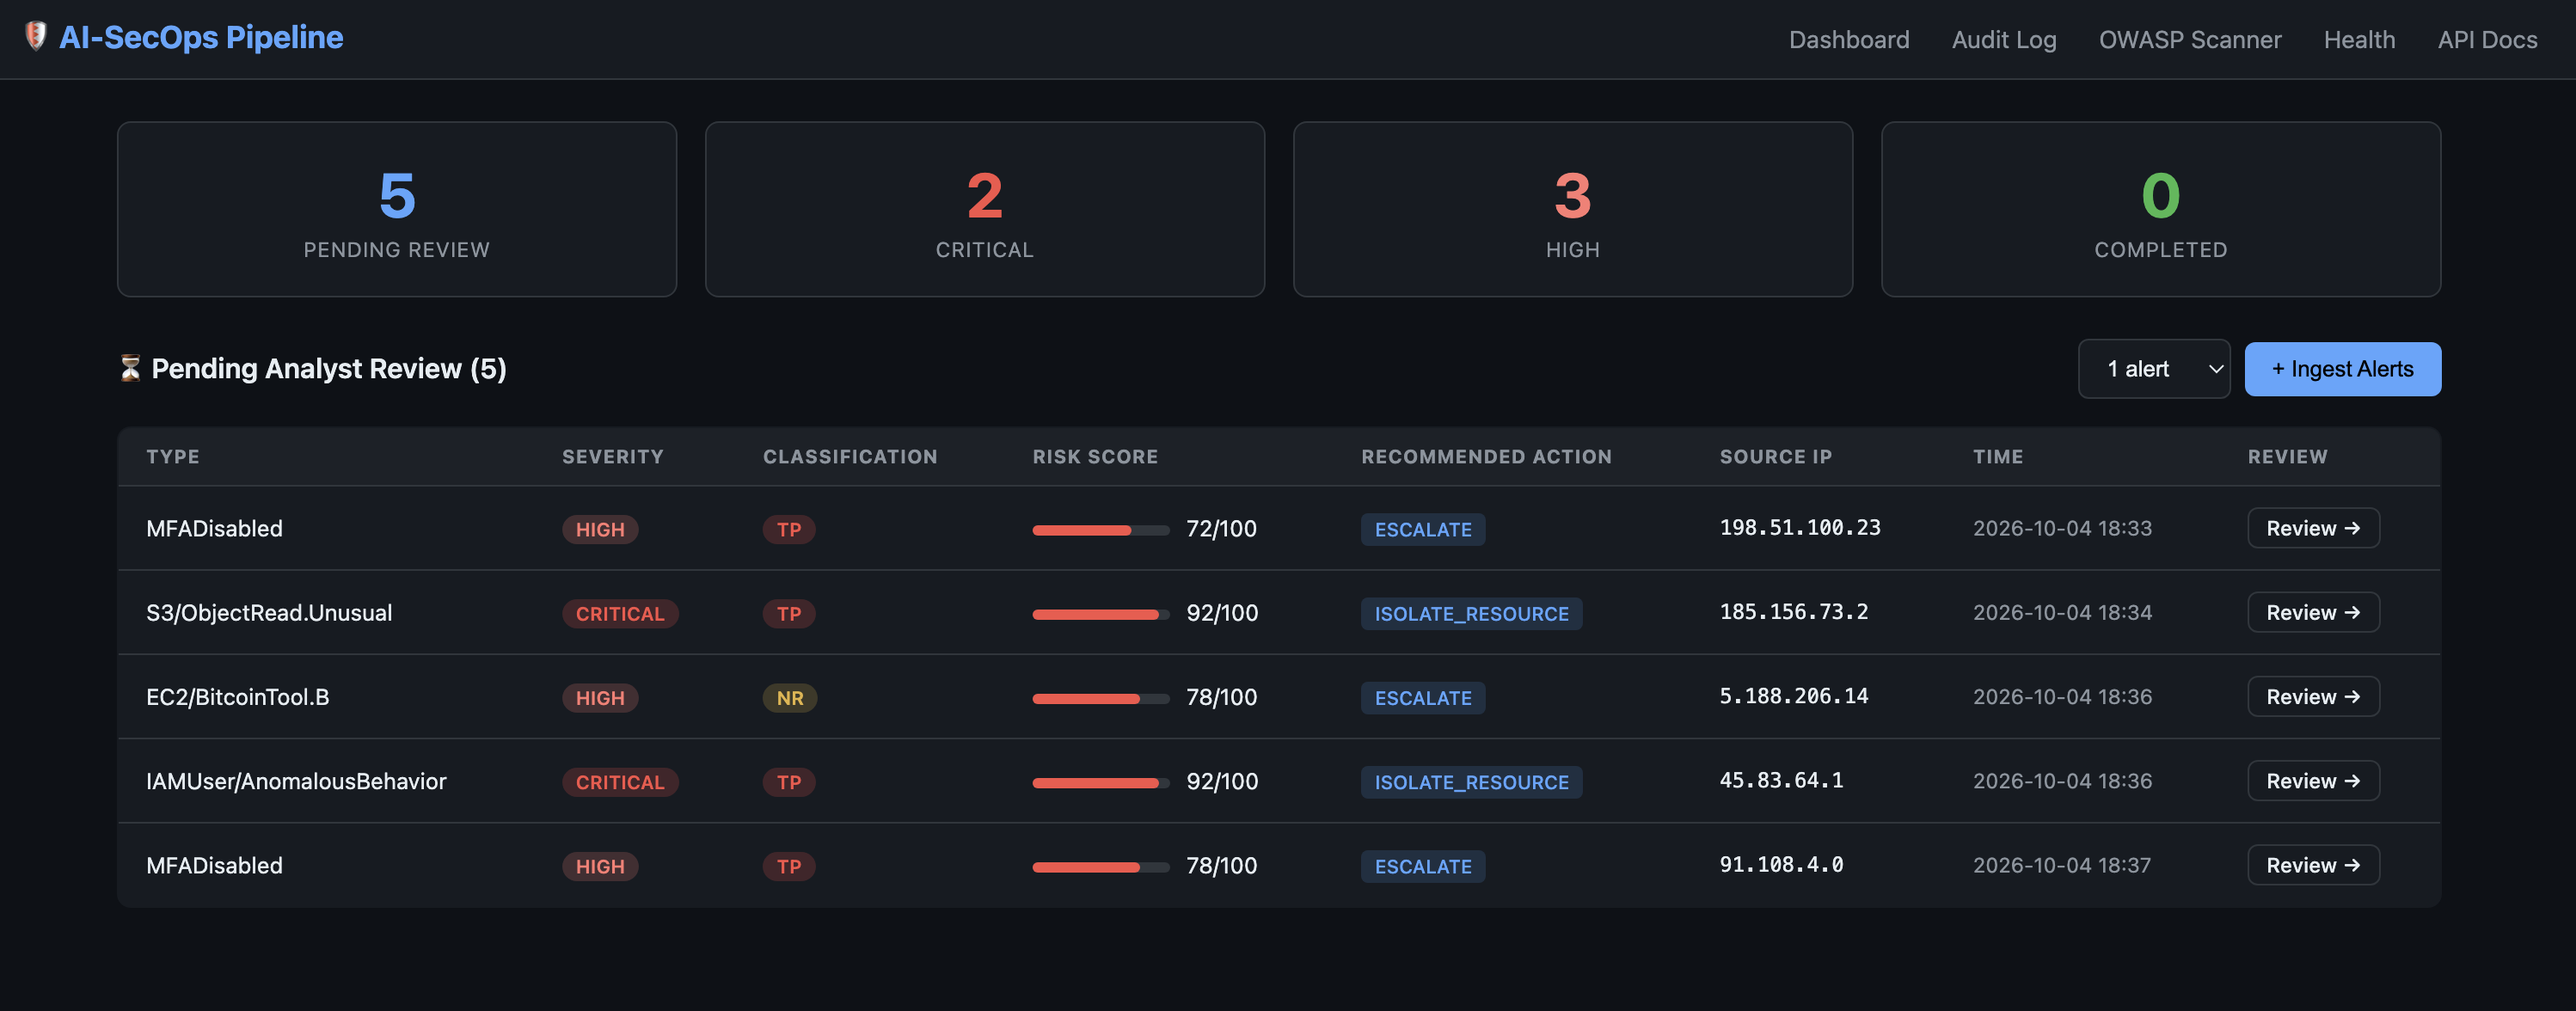
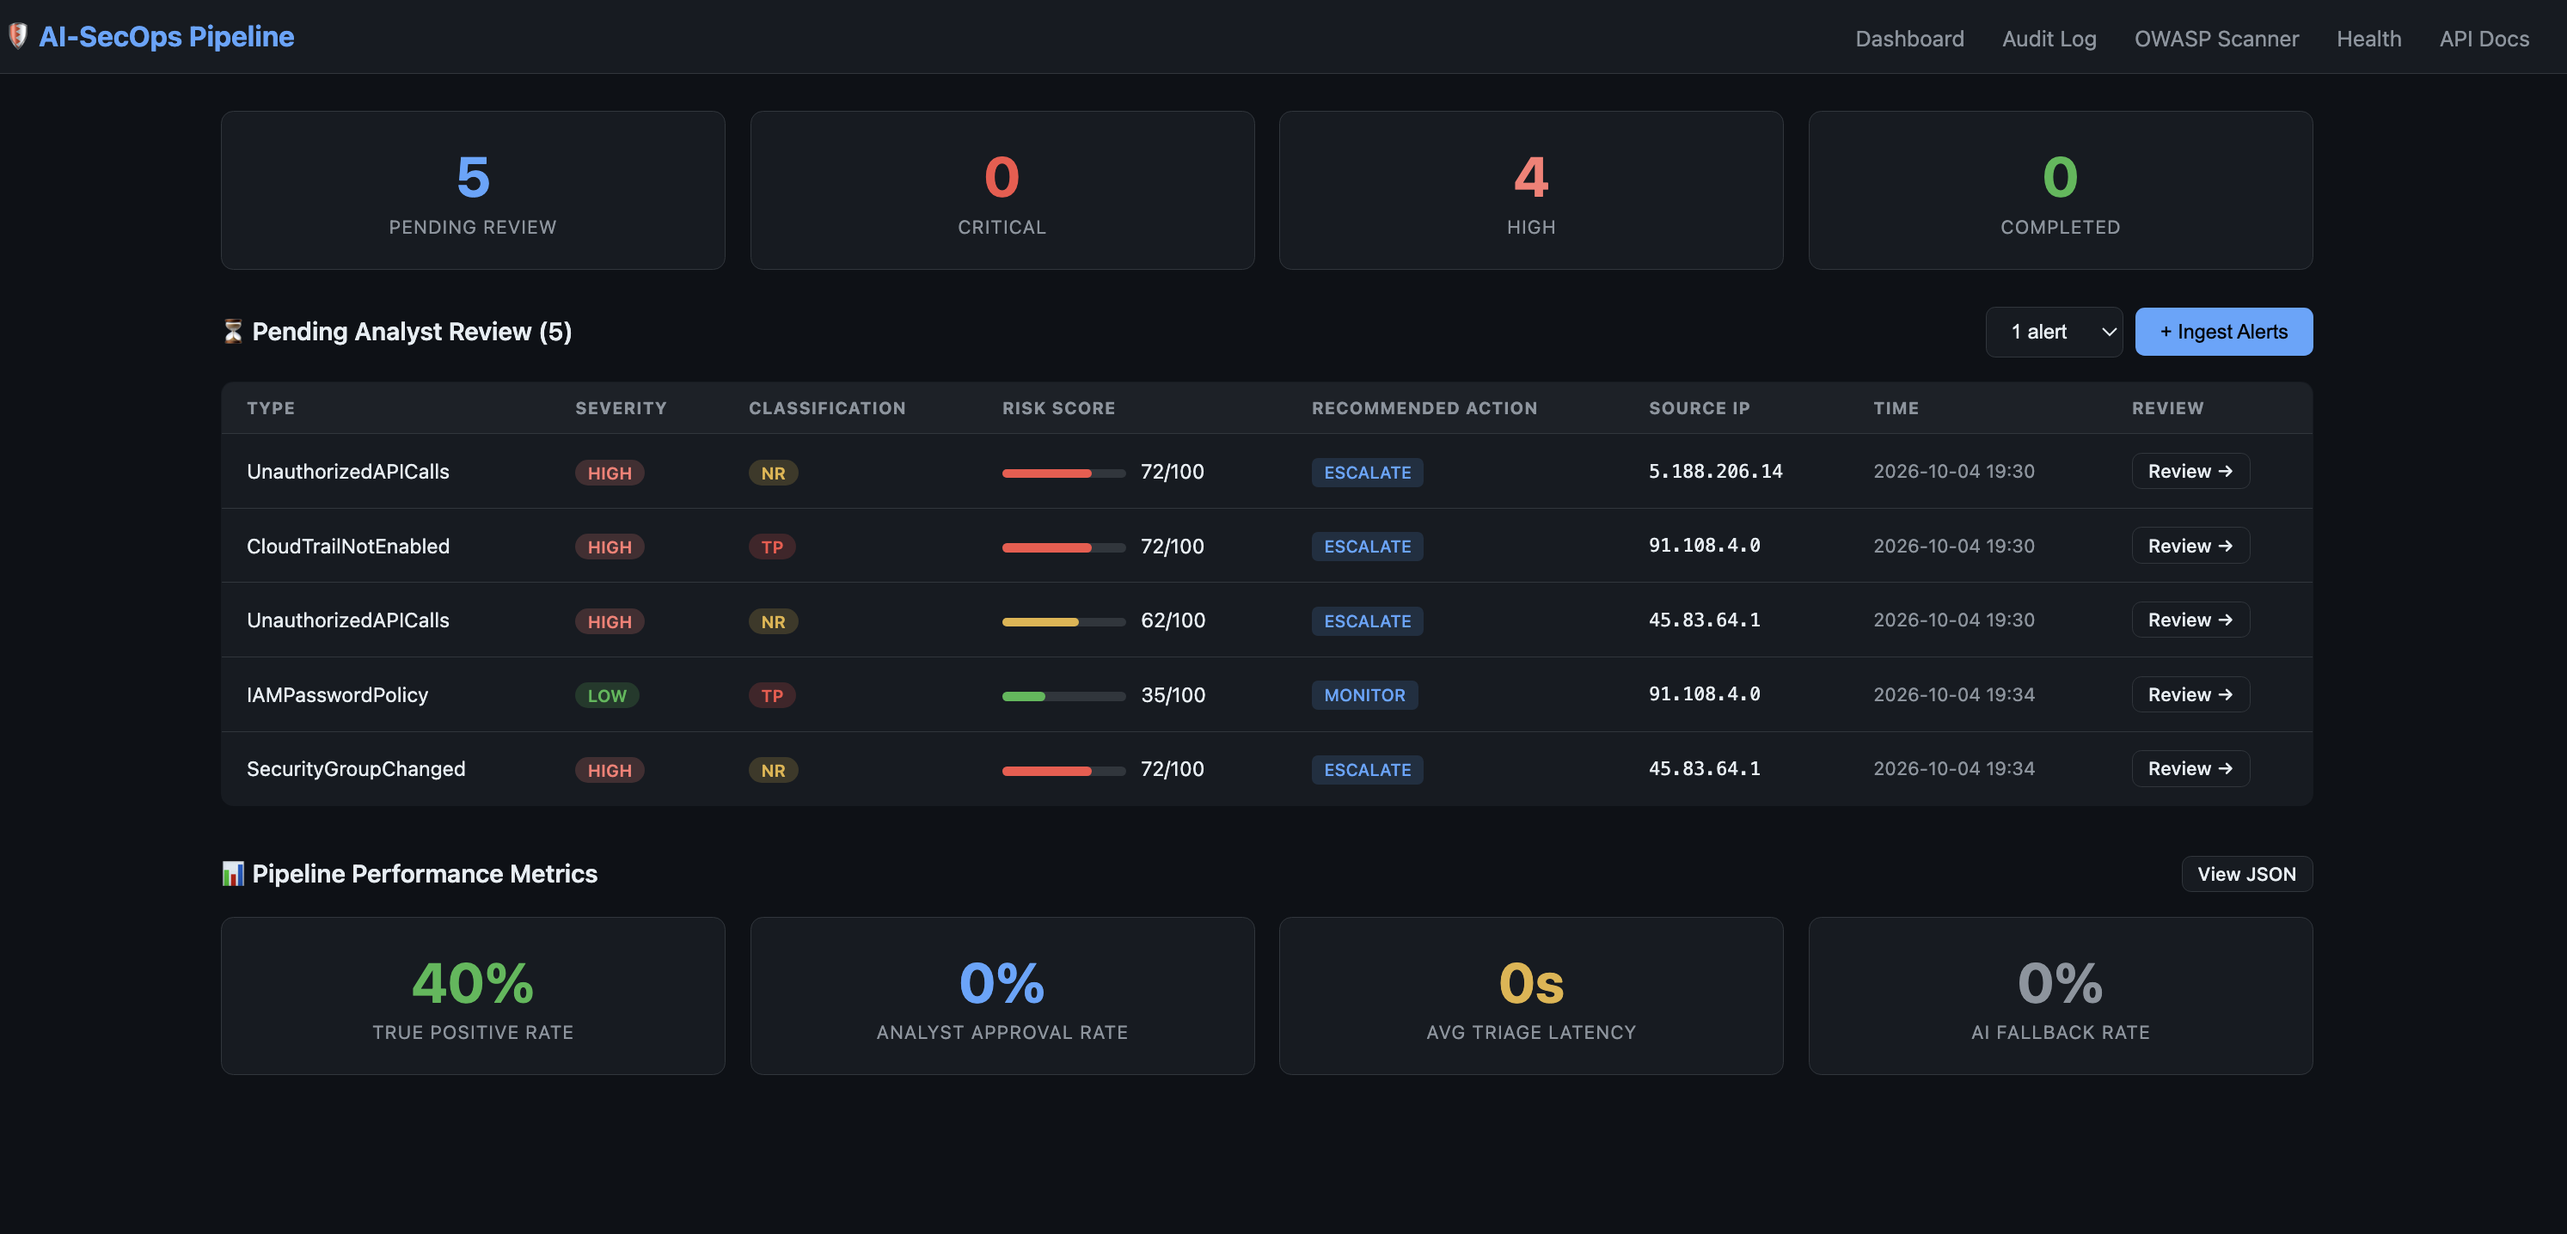
Add metrics panel to dashboard, update screenshot

diff --git a/templates/dashboard.html b/templates/dashboard.html
@@ -192,6 +192,46 @@
     </tbody>
   </table>
   {% endif %}
+
+  <!-- Metrics Panel -->
+  <div class="section-header" style="margin-top: 32px;">
+    <h2>📊 Pipeline Performance Metrics</h2>
+    <a href="/api/metrics" target="_blank" class="btn btn-secondary btn-sm">View JSON</a>
+  </div>
+  <div class="stats-grid" id="metrics-grid">
+    <div class="stat-card">
+      <div class="value" id="m-tp-rate" style="color: var(--low);">—</div>
+      <div class="label">True Positive Rate</div>
+    </div>
+    <div class="stat-card">
+      <div class="value" id="m-approval-rate" style="color: var(--accent);">—</div>
+      <div class="label">Analyst Approval Rate</div>
+    </div>
+    <div class="stat-card">
+      <div class="value" id="m-latency" style="color: var(--medium);">—</div>
+      <div class="label">Avg Triage Latency</div>
+    </div>
+    <div class="stat-card">
+      <div class="value" id="m-fallback" style="color: var(--muted);">—</div>
+      <div class="label">AI Fallback Rate</div>
+    </div>
+  </div>
+
+<script>
+async function loadMetrics() {
+  try {
+    const r = await fetch('/api/metrics');
+    const d = await r.json();
+    if (d.message) return; // no data yet
+    document.getElementById('m-tp-rate').textContent = d.classification_breakdown.true_positive_rate + '%';
+    document.getElementById('m-approval-rate').textContent = (d.analyst_decisions.approval_rate || 0) + '%';
+    document.getElementById('m-latency').textContent = d.performance.avg_triage_latency_seconds + 's';
+    document.getElementById('m-fallback').textContent = d.performance.ai_fallback_rate + '%';
+  } catch(e) { console.log('Metrics unavailable'); }
+}
+loadMetrics();
+setInterval(loadMetrics, 10000);
+</script>
 </div>
 </body>
 </html>
